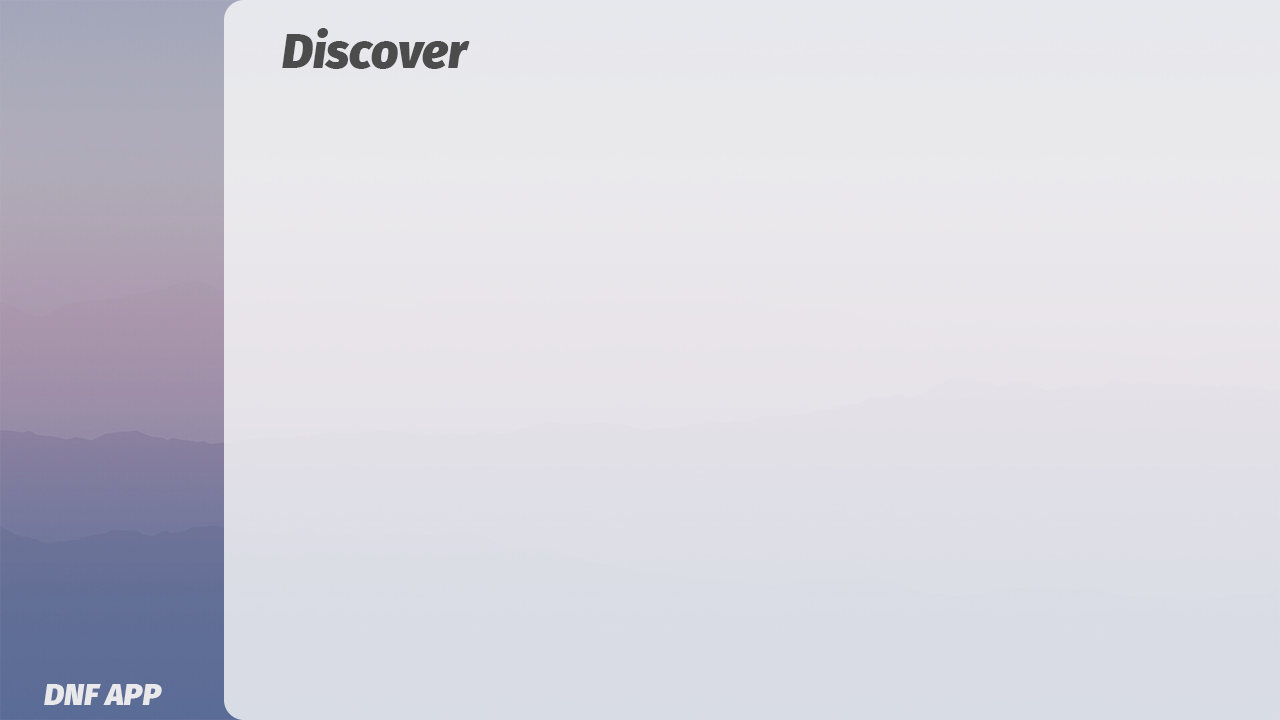
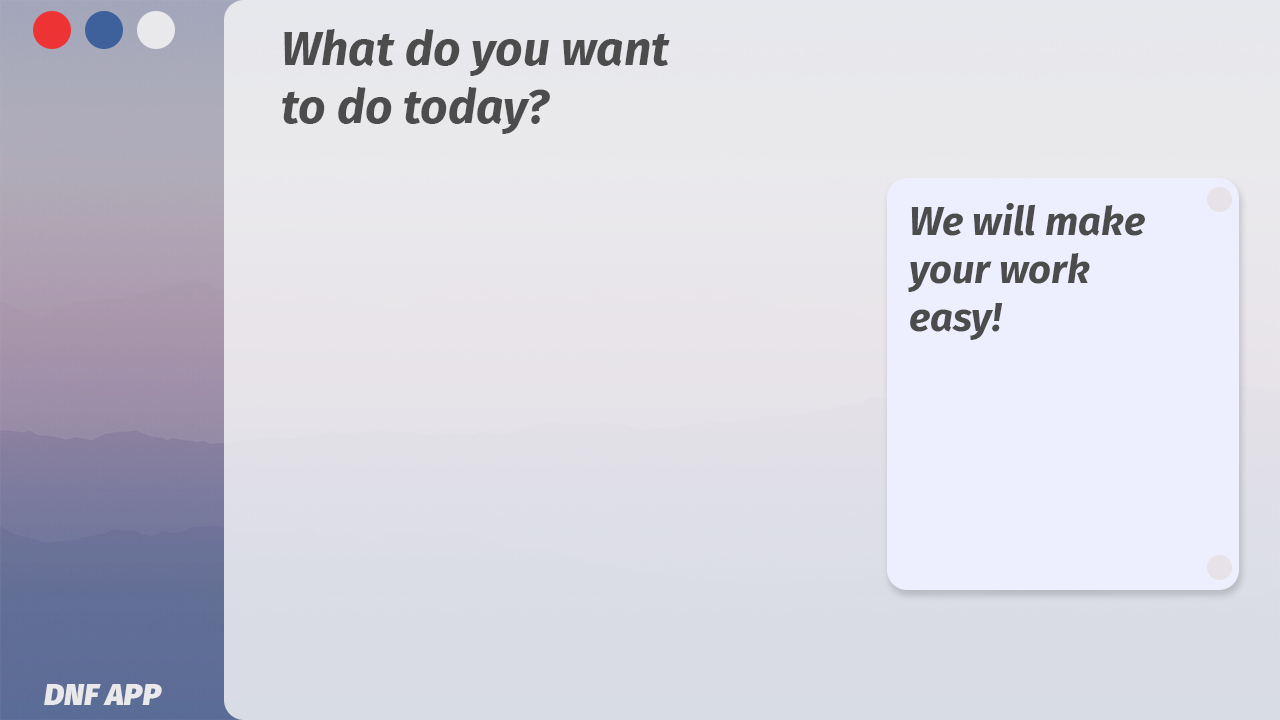
add asset
add new bg home buat user

add:
1. button cek history pengiriman
2. button kirim paket

diff --git a/DNFApp/src/dnfapp/UserMainMenu.java b/DNFApp/src/dnfapp/UserMainMenu.java
@@ -77,6 +77,7 @@ public class UserMainMenu extends javax.swing.JFrame {
         HomeButton.setIcon(new javax.swing.ImageIcon(getClass().getResource("/images/User_Button_Home_1.png"))); // NOI18N
         HomeButton.setBorderPainted(false);
         HomeButton.setContentAreaFilled(false);
+        HomeButton.setPreferredSize(new java.awt.Dimension(144, 39));
         HomeButton.addMouseListener(new java.awt.event.MouseAdapter() {
             public void mouseClicked(java.awt.event.MouseEvent evt) {
                 HomeButtonMouseClicked(evt);
